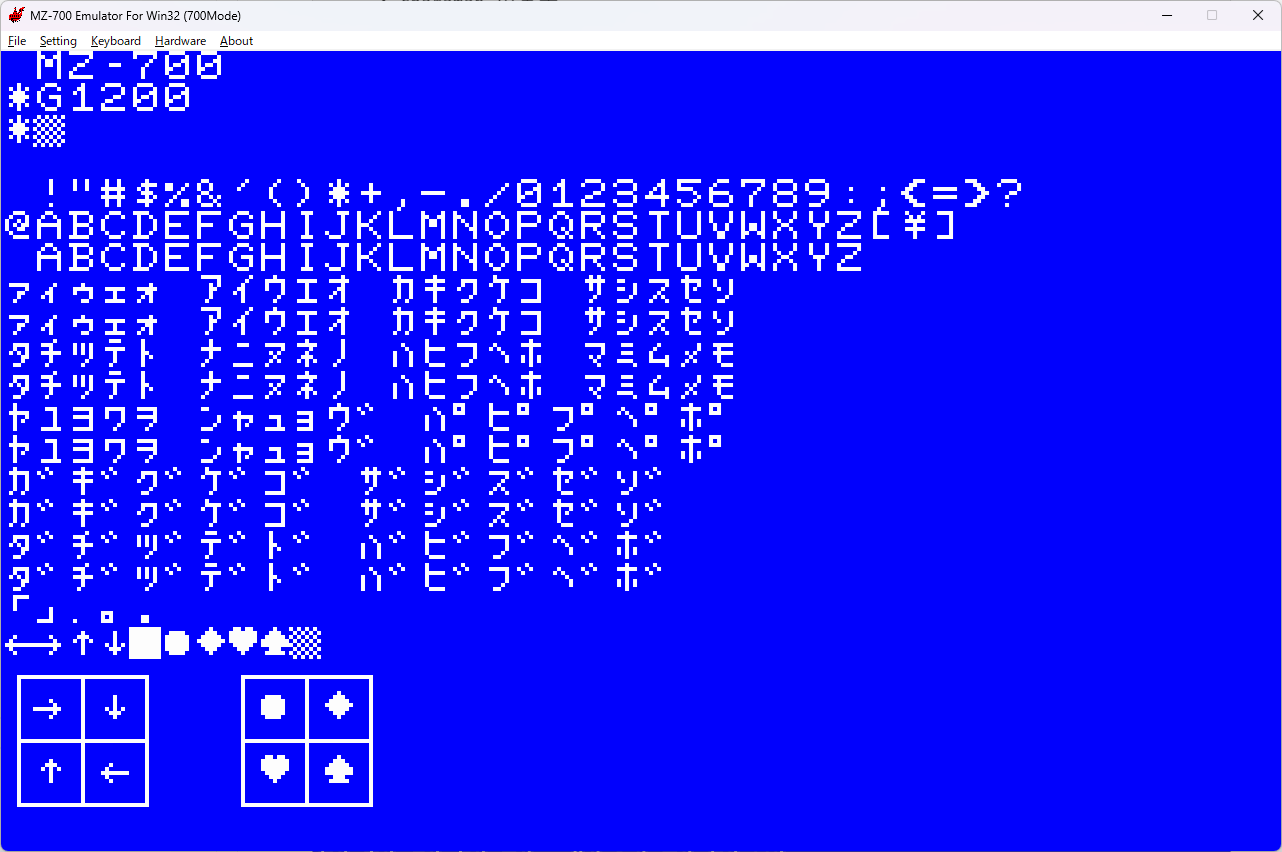
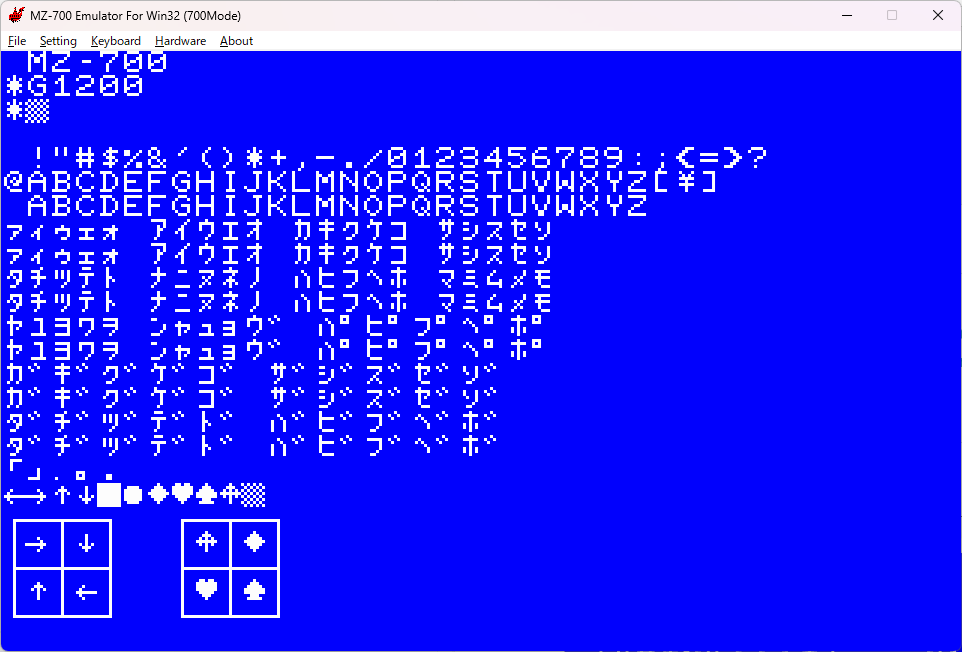
mz700 に ♣追加

diff --git a/charmap.py b/charmap.py
@@ -20,6 +20,7 @@ KIGOU = {
     "♦": [0x44],
     "♥": [0x53],
     "♠": [0x41],
+    "♣": [0x46],
     "▩": [0x5A],
     # "／": [0x76],
     # "＼": [0x77],
@@ -200,9 +201,9 @@ TEST_STRING = [
     "だぢづでど　ばびぶべぼ",
     "ダヂヅデド　バビブベボ",
     "「」・。．",
-    "←→↑↓■●◆♥♠▩",
+    "←→↑↓■●◆♥♠♣▩",
     "┏━┳━┓  ┌─┬─┐",
-    "┃→┃↓┃  │●│◆│",
+    "┃→┃↓┃  │♣│◆│",
     "┣━╋━┫  ├─┼─┤",
     "┃↑┃←┃  │♥│♠│",
     "┗━┻━┛  └─┴─┘",
